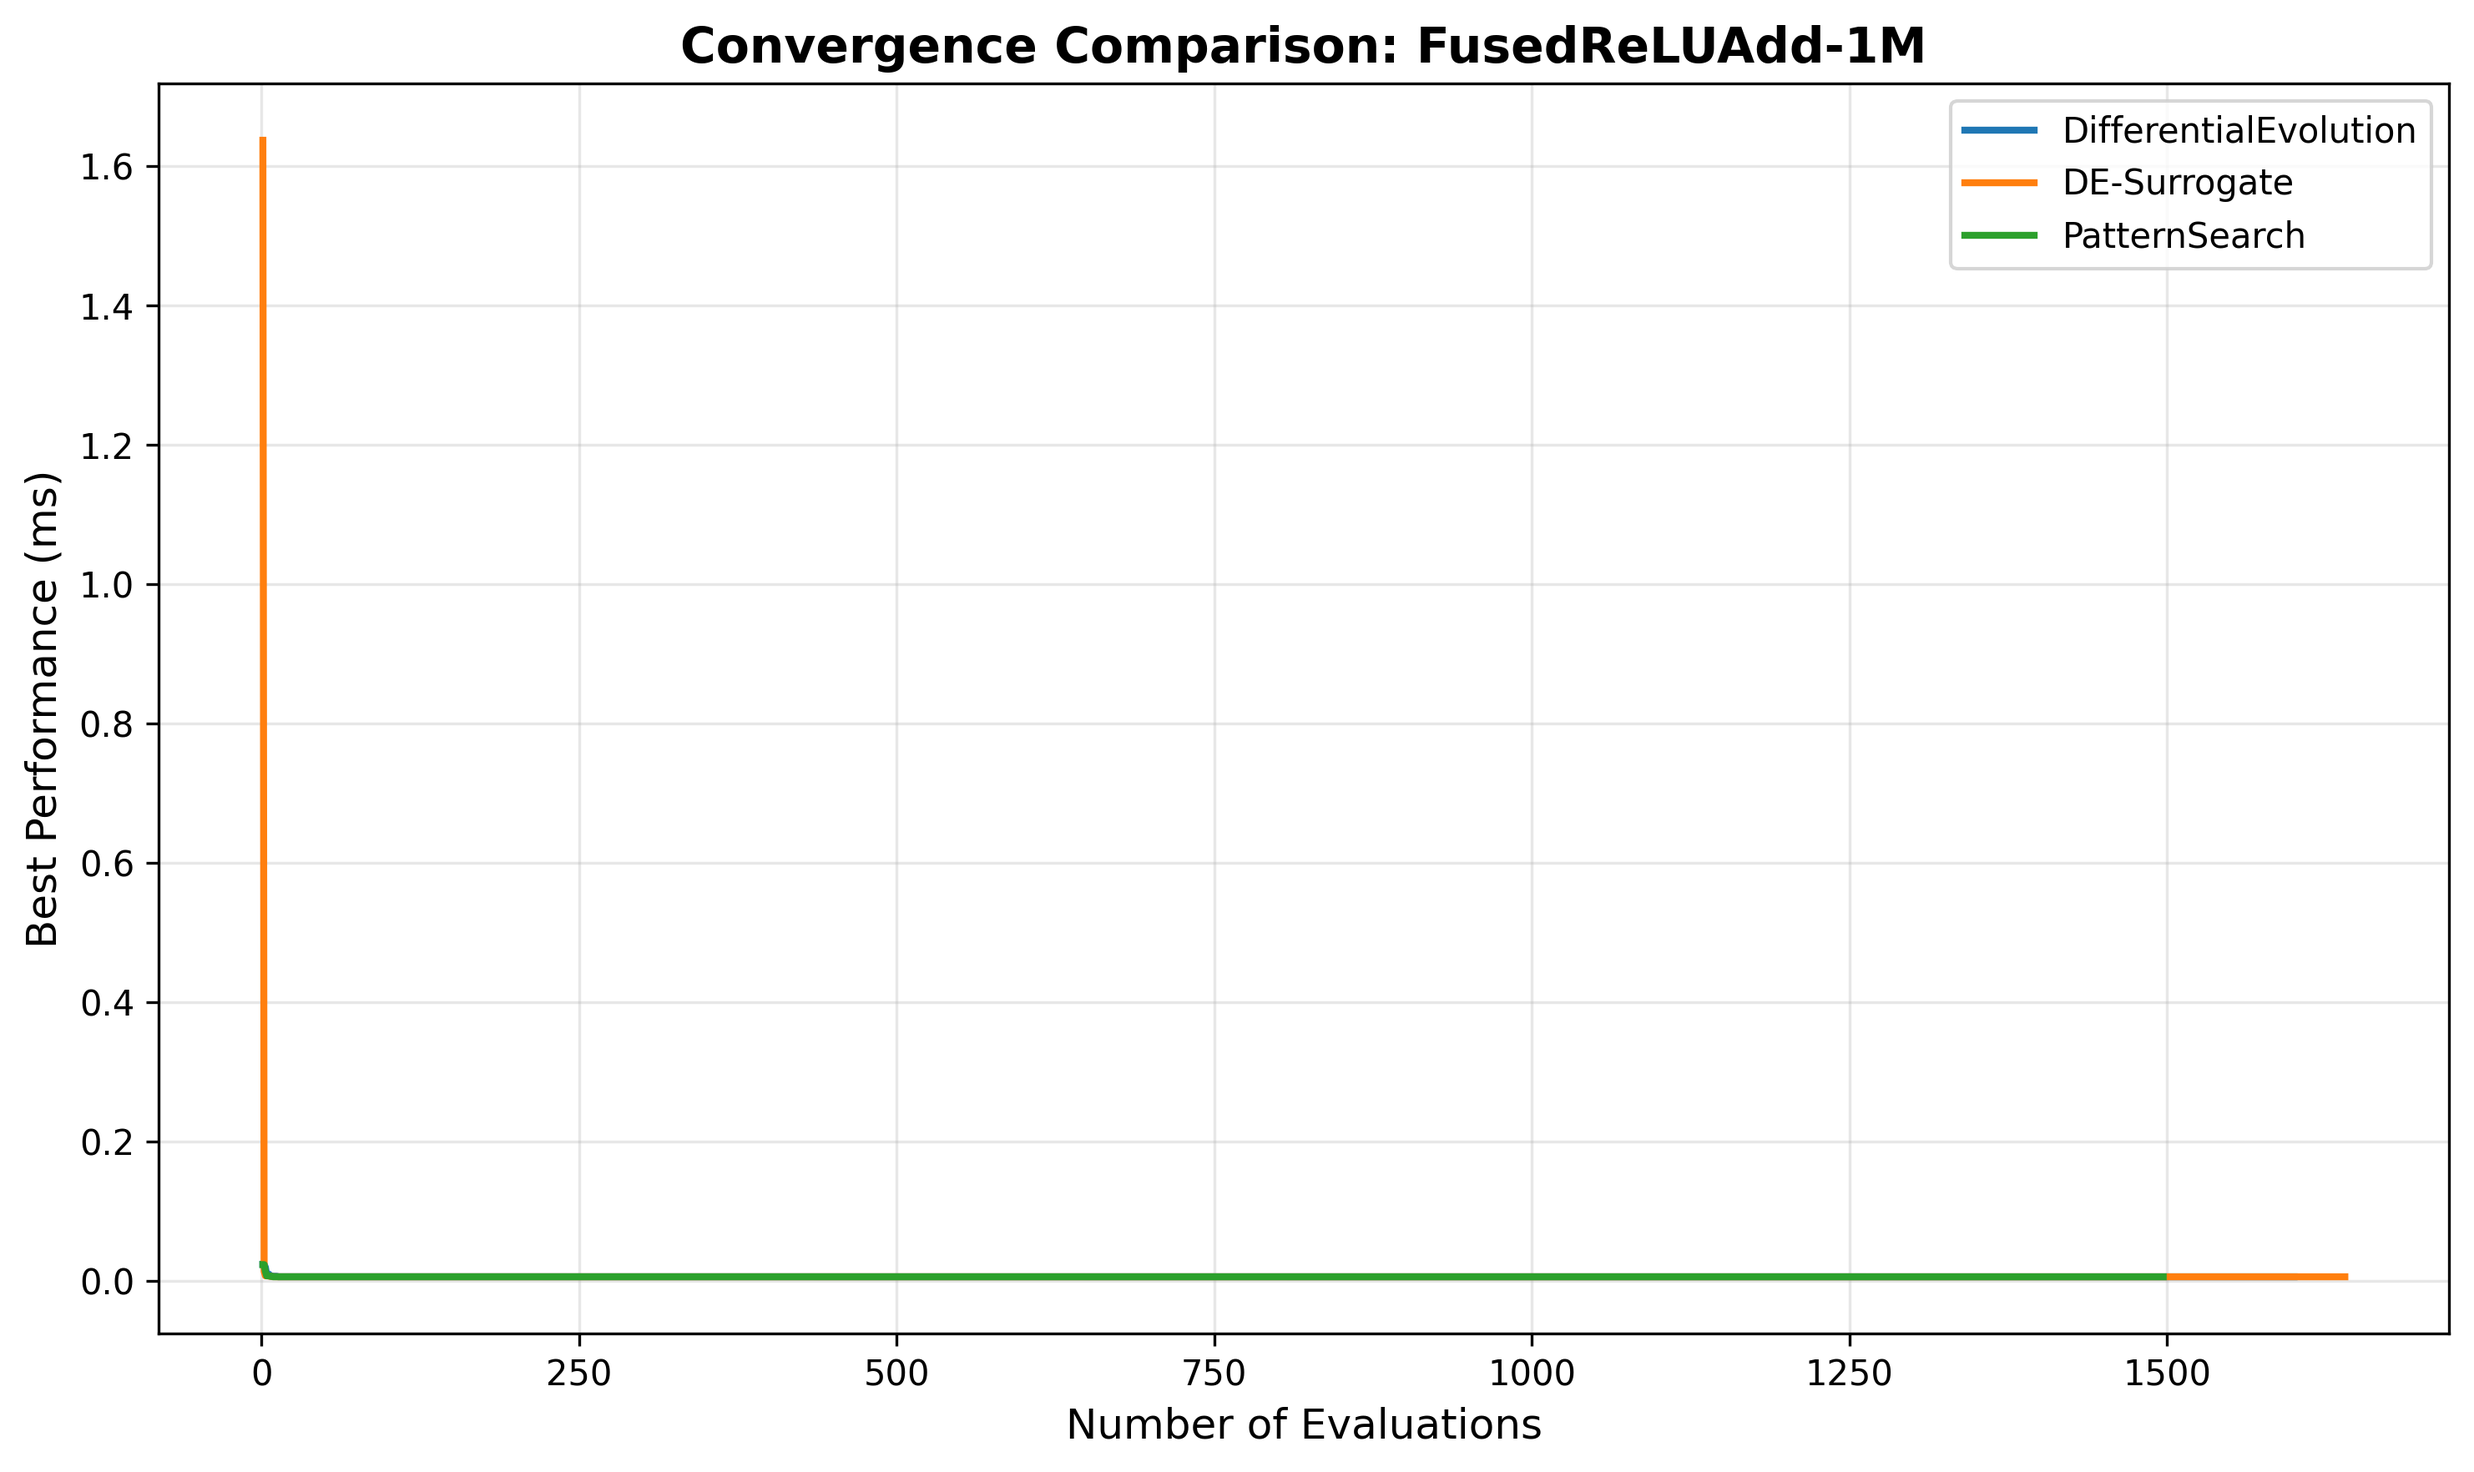
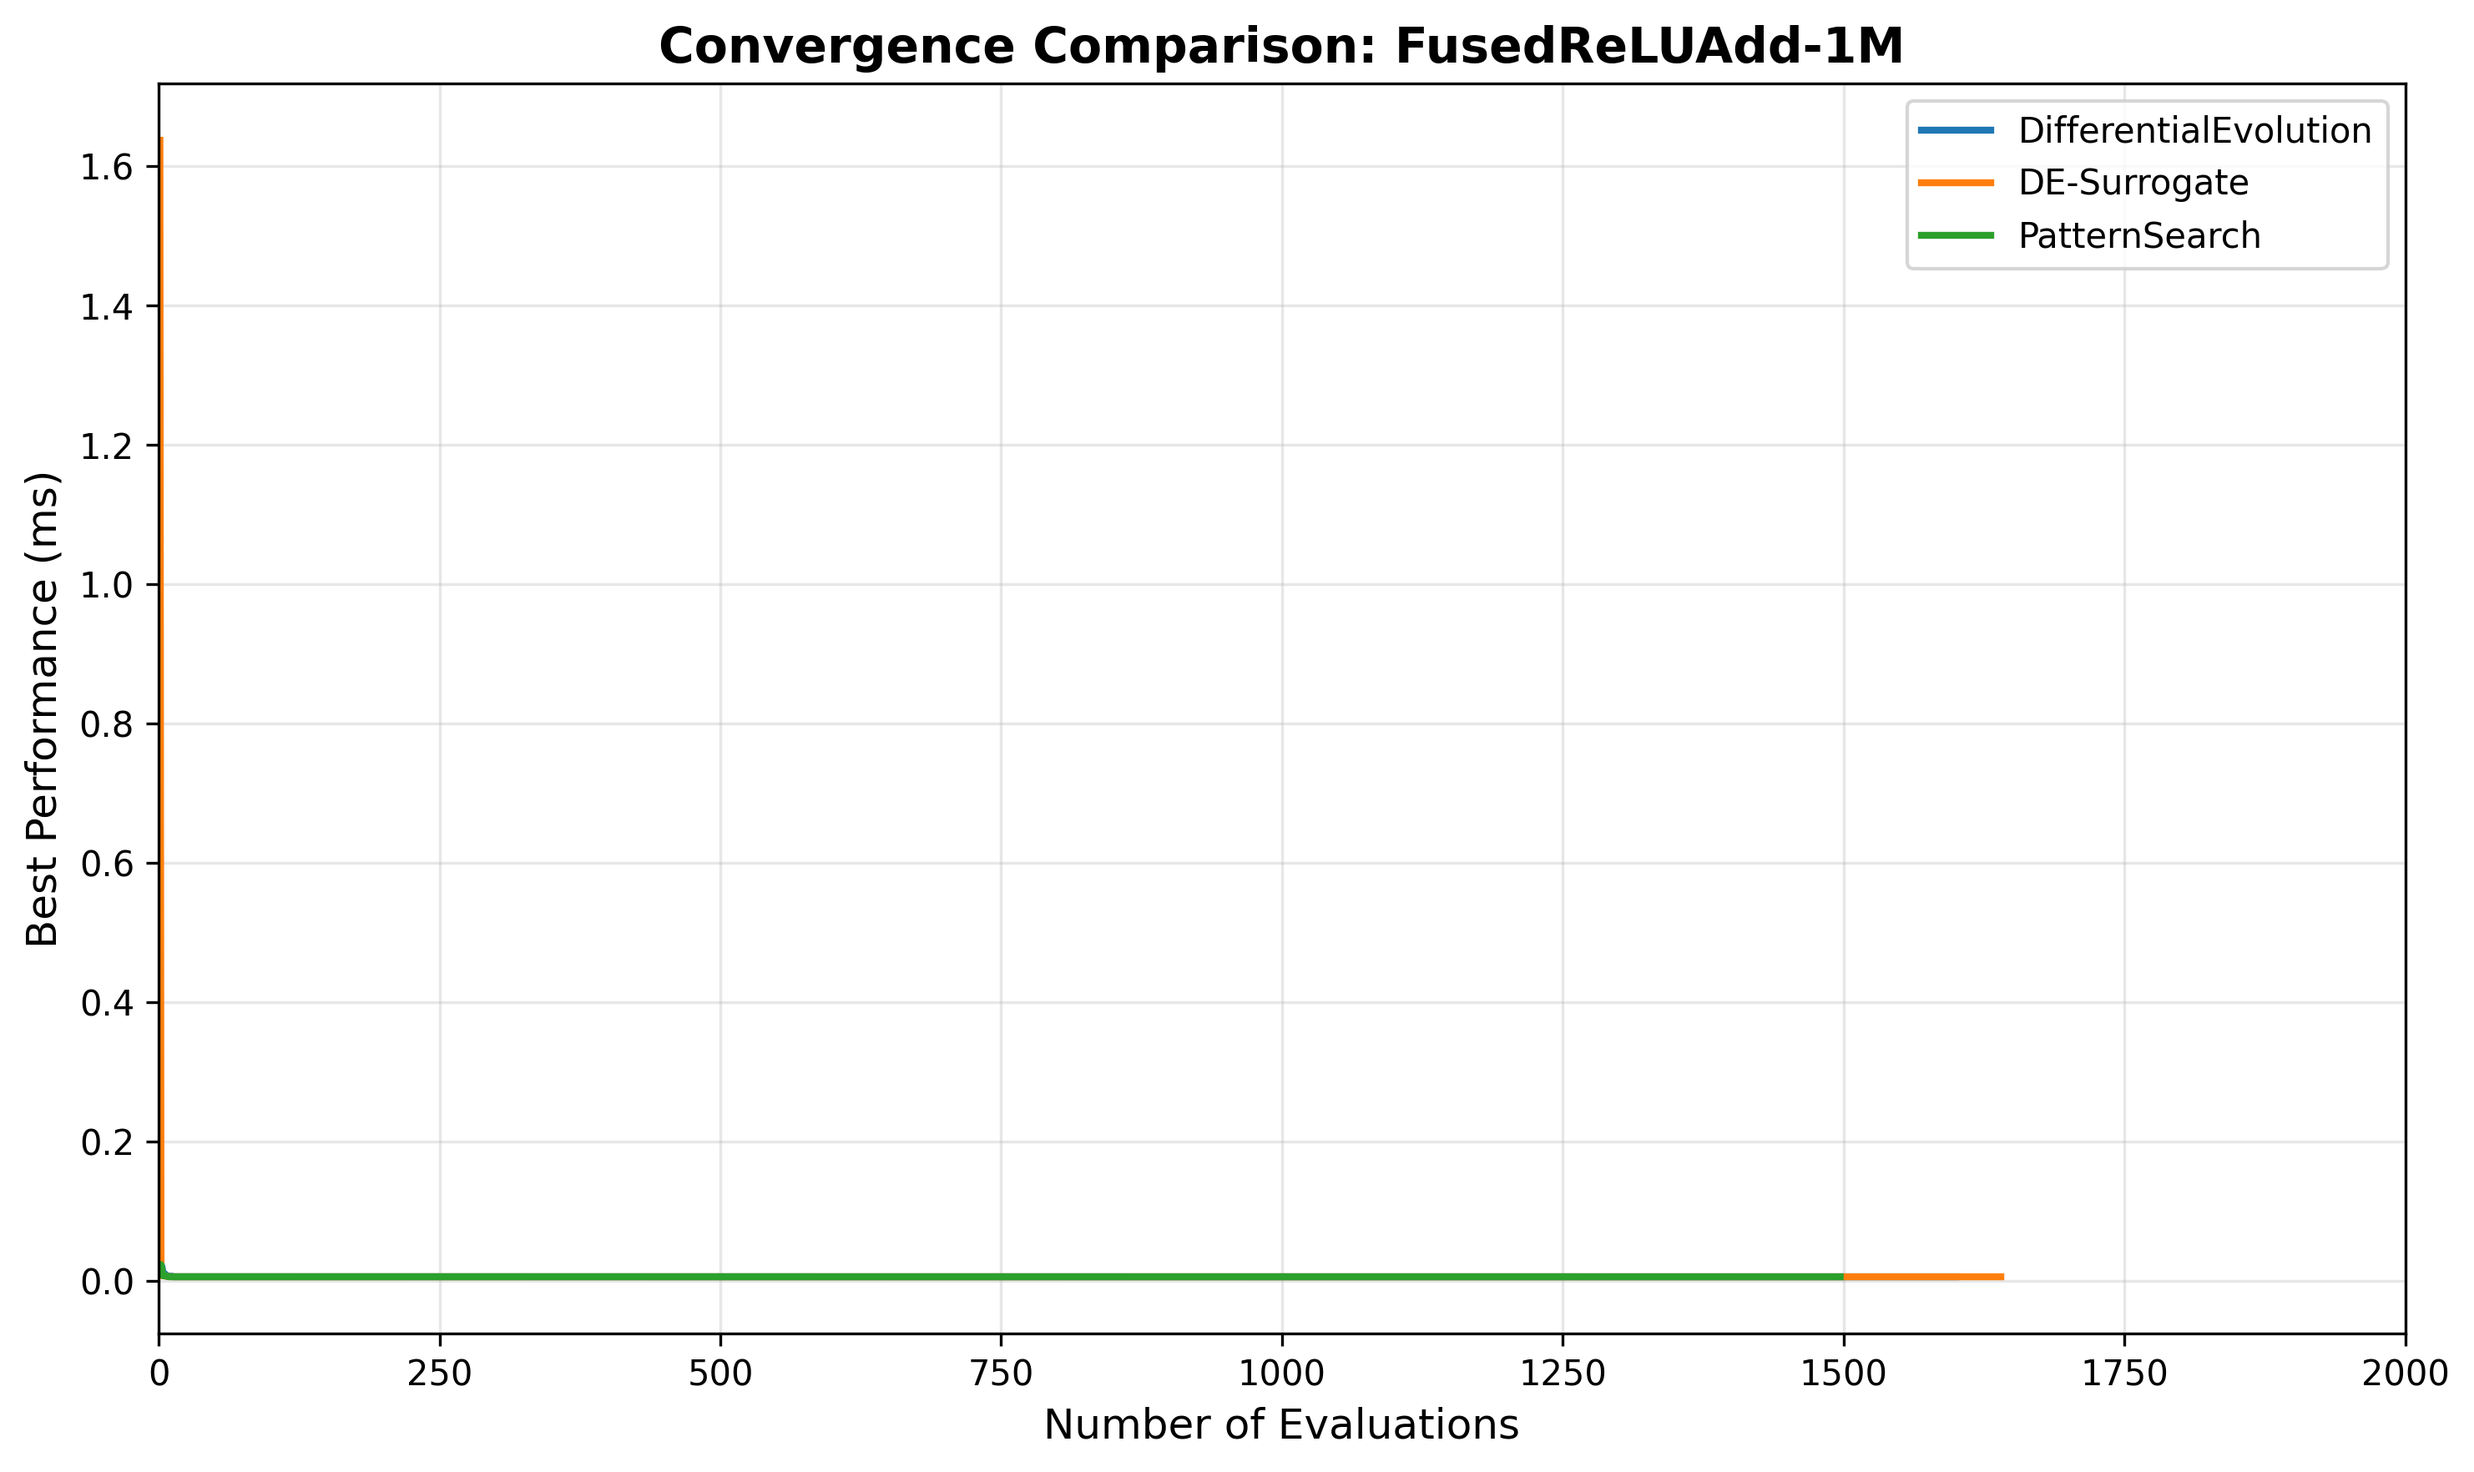
Fix convergence plot X-axis scaling
Limited X-axis to 2000 evaluations for fair comparison across algorithms.
Previously, PatternSearch's 4433 evaluations on MatMul stretched the
X-axis, making DE and DE-Surrogate curves (1600 evals) appear squished.

Now all three algorithms are clearly visible with consistent scaling:
- X-axis: 0-2000 evaluations (common budget)
- Shows convergence patterns fairly for all algorithms
- Makes it easy to compare sample efficiency

diff --git a/scripts/regenerate_plots.py b/scripts/regenerate_plots.py
@@ -1,0 +1,77 @@
+#!/usr/bin/env python3
+"""Regenerate convergence plots from CSV files."""
+
+import csv
+from pathlib import Path
+import matplotlib.pyplot as plt
+
+def parse_csv_convergence(csv_path):
+    """Parse CSV and extract convergence data."""
+    evals = []
+    perfs = []
+    best_so_far = float('inf')
+
+    with open(csv_path, 'r') as f:
+        reader = csv.DictReader(f)
+        for i, record in enumerate(reader, 1):
+            if record.get('status') == 'ok':
+                perf = float(record['perf_ms'])
+                if perf < best_so_far:
+                    best_so_far = perf
+            evals.append(i)
+            perfs.append(best_so_far)
+
+    return evals, perfs
+
+def plot_convergence(kernel_name):
+    """Generate convergence plot for a kernel."""
+    plt.figure(figsize=(10, 6))
+
+    colors = {
+        'DifferentialEvolution': '#1f77b4',
+        'DE-Surrogate': '#ff7f0e',
+        'PatternSearch': '#2ca02c'
+    }
+
+    log_dir = Path('convergence_logs')
+    max_eval_limit = 2000  # Limit X-axis for fair comparison
+
+    for algo in ['DifferentialEvolution', 'DE-Surrogate', 'PatternSearch']:
+        csv_path = log_dir / f"{kernel_name}_{algo}.csv"
+
+        if not csv_path.exists():
+            print(f"  Warning: {csv_path} not found")
+            continue
+
+        evals, perfs = parse_csv_convergence(csv_path)
+
+        if evals and perfs:
+            # Limit to first max_eval_limit evaluations for fair comparison
+            if len(evals) > max_eval_limit:
+                evals = evals[:max_eval_limit]
+                perfs = perfs[:max_eval_limit]
+
+            plt.plot(evals, perfs, label=algo, color=colors.get(algo, 'gray'), linewidth=2)
+            print(f"  Added {algo}: {len(evals)} points (displayed), best={min(perfs):.4f}ms")
+
+    plt.xlabel('Number of Evaluations', fontsize=12)
+    plt.ylabel('Best Performance (ms)', fontsize=12)
+    plt.title(f'Convergence Comparison: {kernel_name}', fontsize=14, fontweight='bold')
+    plt.xlim(0, max_eval_limit)
+    plt.legend(fontsize=10)
+    plt.grid(True, alpha=0.3)
+    plt.tight_layout()
+
+    output_path = f"convergence_{kernel_name}.png"
+    plt.savefig(output_path, dpi=300, bbox_inches='tight')
+    print(f"  Saved: {output_path}\n")
+    plt.close()
+
+if __name__ == '__main__':
+    kernels = ['MatMul-1024', 'GELU-1M', 'FusedReLUAdd-1M']
+
+    for kernel in kernels:
+        print(f"Generating plot for {kernel}:")
+        plot_convergence(kernel)
+
+    print("All plots regenerated!")
